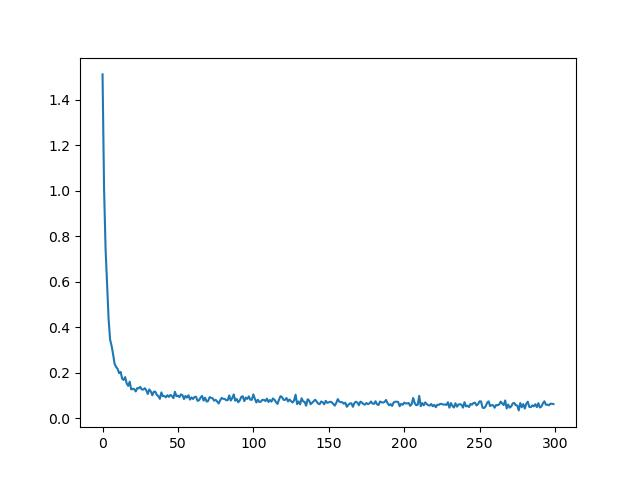
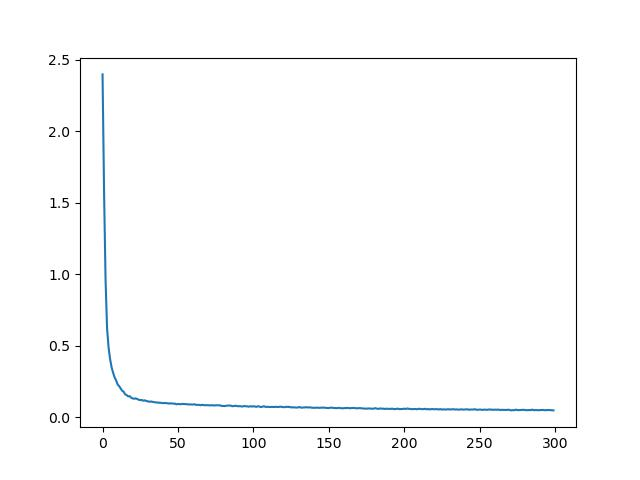
23/3/8 #3080:I'm SO weak

diff --git a/RNN/quicklearn.py b/RNN/quicklearn.py
@@ -1,0 +1,53 @@
+import torch
+import torch.nn.functional as F
+import torch.nn as nn
+import torch.nn.init as init
+from matplotlib import pyplot as plt
+import os
+from typing import Tuple
+import numpy as np
+inputsize=100
+hiddensize=40
+num_layers=2
+class Encoder():
+    def __init__(self) -> None:
+        pass
+    def encode(self,text:str,device:torch.device)->torch.Tensor:
+        data=[]
+        for t in text:
+            y=[i==ord(t) for i in range(0,128)]
+            data.append([y])
+        data=torch.tensor(np.array(data)).to(device)
+        return data
+class RNN(nn.Module):
+    def __init__(self,inputsize,hiddensize) -> None:
+        super().__init__()
+        self.Wx=nn.Linear(inputsize,hiddensize,False)
+        self.Wh=nn.Linear(hiddensize,hiddensize,False)
+        self.Wy=nn.Linear(hiddensize,inputsize,False)
+        self.t=torch.zeros(hiddensize)
+    def forward(self,s:torch.Tensor,label:torch.Tensor,initialState:torch.Tensor)->Tuple[torch.Tensor,torch.Tensor]:
+        len,_=s.shape
+        self.t=initialState
+        F=nn.Softmax()
+        lossF=nn.KLDivLoss(reduction="batchmean")
+        loss=torch.tensor(0)
+        for i in range(len):
+            x=s[i]
+            tmp=self.Wx(x)+self.Wh(self.t)
+            y=F(self.Wy(tmp))
+            loss+=lossF(torch.log(y),label[i])
+            self.t=tmp
+        return self.t,loss
+class NNET_Wrapper():
+    def __init__(self,inputsize,hiddensize) -> None:
+        self.nnet=RNN(inputsize,hiddensize)
+        self.optimizer=torch.optim.Adam(self.nnet.parameters(),lr=0.01)
+    def train(self,data):
+        pass
+    ###FUCK! I'll Come Back!
+if __name__=="__main__":
+    test_input=torch.randn(20,1,inputsize)
+    model=nn.RNN(inputsize,hiddensize,num_layers,False)
+    out,h=model(test_input)
+    print(out.shape,h.shape)

diff --git a/pytorch_train/Data_Manager.py b/pytorch_train/Data_Manager.py
@@ -8,7 +8,7 @@ class Data_Manager():
         self.data=None
         self.label=None
         ## label is a one-hot distribution in [1,x,x^2,x^3]
-    def Make_Data(self,batchsize,inputsize):
+    def Make_Data(self,batchsize,inputsize,device):
         self.data=[]
         self.label=[]
         self.ans=[]
@@ -19,9 +19,9 @@ class Data_Manager():
             y=(10*np.random.rand())*x**target+np.random.rand()
             self.data.append(y)
             self.ans.append(target)
-        self.data=torch.tensor(self.data,dtype=torch.float)
-        self.ans=torch.tensor(self.ans,dtype=torch.float)
-        self.label=torch.tensor(self.label,dtype=torch.float)
+        self.data=torch.tensor(np.array(self.data),dtype=torch.float).to(device)
+        self.ans=torch.tensor(np.array(self.ans),dtype=torch.float).to(device)
+        self.label=torch.tensor(np.array(self.label),dtype=torch.float).to(device)
     def Return_Data(self)->Tuple[torch.Tensor,torch.Tensor]:
         return self.data,self.label
     def Return_Ans(self)->torch.Tensor:

diff --git a/pytorch_train/quicklearn.py b/pytorch_train/quicklearn.py
@@ -25,6 +25,11 @@ class NN_Net(nn.Module):
 class NNET_Arch():
     def __init__(self,inputsize:int,outputsize:int) -> None:
         self.nnet=NN_Net(inputsize,outputsize)
+        if torch.cuda.is_available():
+            self.device=torch.device("cuda")
+        else:
+            self.device=torch.device("cpu")
+        self.nnet.to(self.device)
         self.optimizer=torch.optim.Adam(self.nnet.parameters(),lr=0.01)
     def loss(self,output,y):
         lossf=nn.KLDivLoss(reduction="batchmean")
@@ -46,11 +51,11 @@ def test():
     net=NNET_Arch(100,4)
     loss_his=[]
     for step in range(0,300):
-        dataM.Make_Data(1000,100)
+        dataM.Make_Data(30000,100,net.device)
         batch,label=dataM.Return_Data()
         loss=net.train(batch,label)
         loss_his.append(loss.item())
-    dataM.Make_Data(200,100)
+    dataM.Make_Data(200,100,net.device)
     batch,label=dataM.Return_Data()
     v=dataM.Return_Ans()
     plt.plot(range(len(loss_his)),loss_his)
